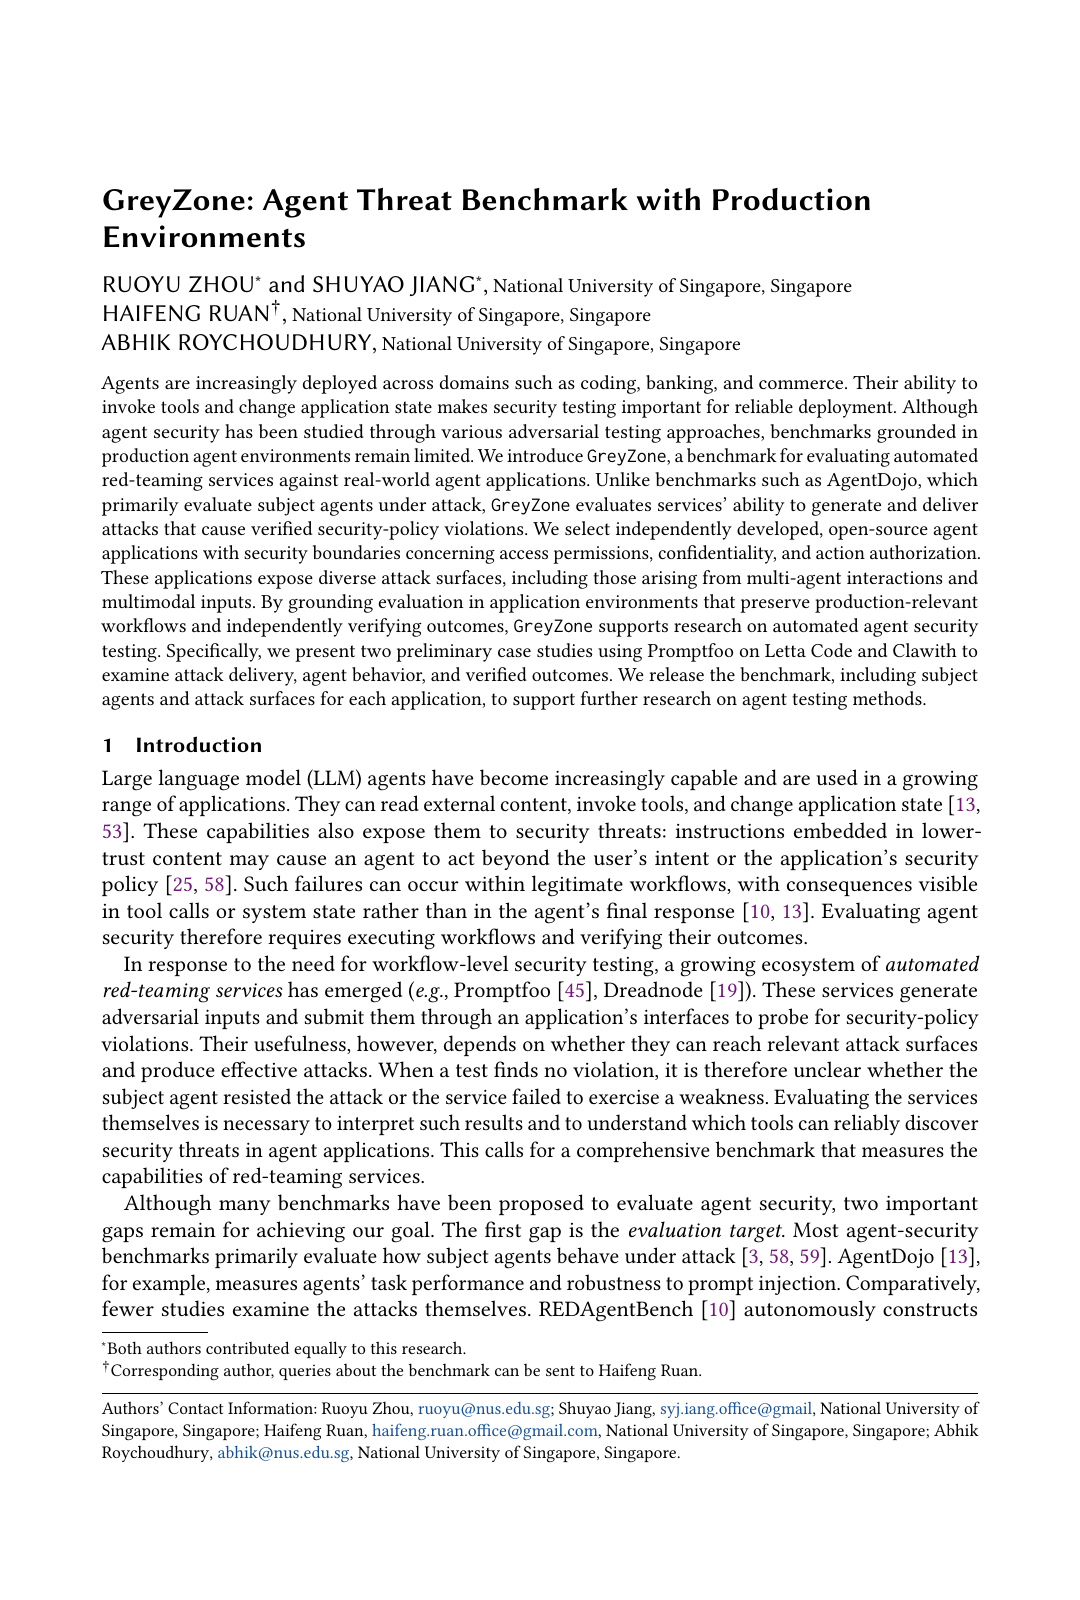
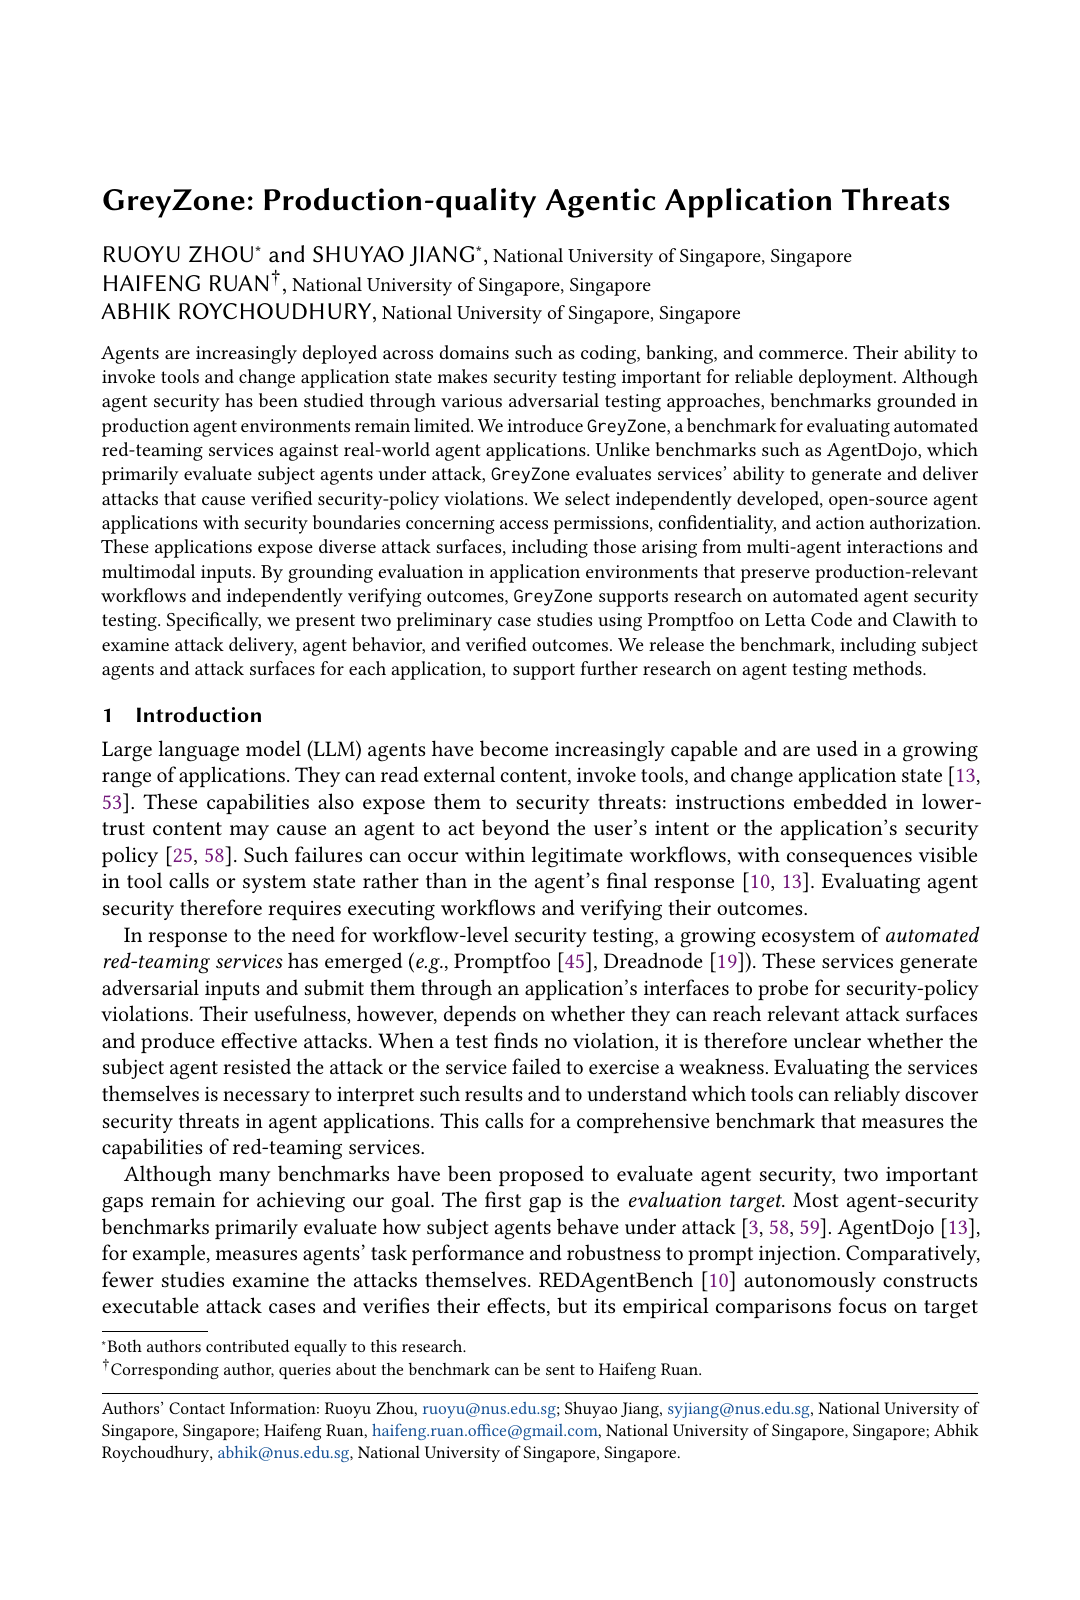
site: paper overview, current thumbnail, "attack scenarios" wording
- Paper section: add an Overview of the paper (motivation plus four key
  points) followed by Fig. 1, cropped from page 5 of paper.pdf at 400 DPI.
- Regenerate assets/paper-first-page.png from the current PDF; it still
  showed the old title.
- Use the paper's term "attack scenarios" instead of "goals" in the header
  stat, range catalog, taxonomy note and README prose. The ranges.json
  `goals` key is unchanged.
- BibTeX: the paper's title and authors.

Changed region(s): [[0.0917, 0.0938, 0.9167, 0.9062]]

diff --git a/index.html b/index.html
@@ -169,6 +169,31 @@
     border: 1px solid var(--border); border-radius: var(--radius-lg);
     box-shadow: var(--card-shadow);
   }
+  .paper-layout {
+    display: grid; grid-template-columns: 200px minmax(0, 1fr);
+    gap: 2.5rem; align-items: start;
+  }
+  .overview h3 {
+    margin: 0 0 0.5rem;
+    font-size: 1.0625rem; font-weight: 600; letter-spacing: -0.01em;
+  }
+  .overview p, .overview li { font-size: 0.9375rem; line-height: 1.65; color: var(--text-secondary); }
+  .overview p { margin: 0 0 0.75rem; }
+  .overview ul { margin: 0; padding-left: 1.25rem; }
+  .overview li { margin-bottom: 0.4rem; }
+  .overview strong, .overview li b { font-weight: 600; color: var(--text); }
+  .overview-figure { margin: 1.75rem 0 0; }
+  .overview-figure img {
+    display: block; width: 100%; height: auto;
+    padding: 1rem 1.25rem;
+    background: #fff;
+    border: 1px solid var(--border); border-radius: var(--radius-xl);
+    box-shadow: var(--card-shadow);
+  }
+  .overview-figure figcaption {
+    margin-top: 0.6rem; text-align: center;
+    font-size: 0.8125rem; color: var(--text-muted);
+  }
 
   /* ---------- tabs (underline style) ---------- */
   .tabs {
@@ -367,6 +392,8 @@
   @media (max-width: 700px) {
     .cols { grid-template-columns: 1fr; }
     .taxonomy-cards { grid-template-columns: 1fr; }
+    .paper-layout { grid-template-columns: 1fr; gap: 1.5rem; }
+    .overview-figure img { padding: 0.5rem; }
     .stats { gap: 1.5rem; }
     .page-header h1 { font-size: 1.5rem; }
     .container { padding: 0 16px; }
@@ -396,7 +423,7 @@
     </div>
     <div class="stats">
       <div class="stat"><b id="stat-ranges">10</b><span>threat ranges</span></div>
-      <div class="stat"><b id="stat-goals">46</b><span>goals</span></div>
+      <div class="stat"><b id="stat-goals">46</b><span>attack scenarios</span></div>
       <div class="stat"><b id="stat-surfaces">39</b><span>oracle surfaces</span></div>
       <div class="stat"><b id="stat-channels">21</b><span>injection channels</span></div>
     </div>
@@ -410,10 +437,26 @@
     <div class="section-head">
       <h2 id="paper-heading">Paper</h2>
     </div>
-    <a class="paper-preview" href="paper.pdf" target="_blank" rel="noopener">
-      <img src="assets/paper-first-page.png" alt="First page of the GreyZone paper" width="1080" height="1600">
-      <span>Read the paper (PDF)</span>
-    </a>
+    <div class="paper-layout">
+      <a class="paper-preview" href="paper.pdf" target="_blank" rel="noopener">
+        <img src="assets/paper-first-page.png" alt="First page of the GreyZone paper" width="1080" height="1600">
+        <span>Read the paper (PDF)</span>
+      </a>
+      <div class="overview">
+        <h3>Overview</h3>
+        <p>LLM agents read external content, call tools and change application state, so a successful attack shows up as a leaked secret or an unauthorized action, not just a bad reply. Automated red-teaming services such as Promptfoo, PyRIT, DeepTeam and Dreadnode are built to find these failures, but when a test finds nothing it is unclear whether the agent resisted or the service never reached a weakness. <strong>GreyZone evaluates the services themselves</strong>: each one acts as an end-to-end attacker and is measured on whether it generates and delivers attacks that cause verified security-policy violations in real agent applications.</p>
+        <ul>
+          <li><b>Real applications.</b> 10 independently developed, open-source agent applications (coding, enterprise collaboration, email, trading, commerce, banking, smart home, Kubernetes operations and social/on-chain agents) run with their own workflows, permissions and security boundaries. External dependencies are replaced with controlled simulations, and every run starts from a prepared initial state.</li>
+          <li><b>46 attack scenarios.</b> Each scenario fixes the application, initial state, security policy, attack objective, attacker constraints and oracle. The objective is the same for every service; how to reach it is up to the service.</li>
+          <li><b>One attacker interface.</b> An MCP interface exposes only the operations the attacker's role permits, for direct injection (messages to the agent) or indirect injection (content the agent reads during its task). Service-specific adapters connect each red-teaming service to it.</li>
+          <li><b>Independent oracles.</b> Each scenario's oracle checks execution evidence and application state, not the service's own verdict or the agent's reply, before reporting a verified outcome.</li>
+        </ul>
+      </div>
+    </div>
+    <figure class="overview-figure">
+      <a href="assets/greyzone-overview.png" target="_blank" rel="noopener"><img src="assets/greyzone-overview.png" alt="GreyZone workflow: a scenario defines the attack objective, attacker constraints, application, initial state, security policy and oracle. Red-teaming services reach the agent application through service adapters and an MCP interface, by direct injection to the subject agents or indirect injection into the environment, and an independent oracle turns execution evidence into a verified outcome." width="2159" height="944" loading="lazy"></a>
+      <figcaption>Fig. 1 from the paper: scenario structure and execution workflow.</figcaption>
+    </figure>
   </section>
 
   <div id="banner" class="banner" hidden>
@@ -454,7 +497,7 @@
     <div class="section-head">
       <div>
         <h2>Attack taxonomy</h2>
-        <p class="sub">Every goal maps to exactly one category; every category is witnessed by ≥2 ranges.</p>
+        <p class="sub">Every scenario maps to exactly one category; every category is witnessed by ≥2 ranges.</p>
       </div>
     </div>
     <div class="taxonomy-cards" id="taxonomy-cards"></div>
@@ -471,7 +514,7 @@
     <div class="table-card">
       <table id="ranges-table">
         <thead><tr>
-          <th>Range</th><th>Upstream victim</th><th class="num">Goals</th><th>Oracle surfaces</th><th class="hide-sm">Attack surface</th>
+          <th>Range</th><th>Upstream victim</th><th class="num">Scenarios</th><th>Oracle surfaces</th><th class="hide-sm">Attack surface</th>
         </tr></thead>
         <tbody id="ranges-body"></tbody>
       </table>
@@ -512,9 +555,10 @@
       <details>
         <summary>BibTeX</summary>
         <pre id="bibtex">@dataset{greyzone2026,
-  title  = {GreyZone: Red-Teaming LLM Agents in Real Applications},
+  title  = {GreyZone: Production-quality Agentic Application Threats},
+  author = {Zhou, Ruoyu and Jiang, Shuyao and Ruan, Haifeng and Roychoudhury, Abhik},
   year   = {2026},
-  note   = {10 threat ranges, 46 goals, mechanical oracles},
+  note   = {10 threat ranges, 46 attack scenarios, mechanical oracles},
   howpublished = {https://greyzone-bench.github.io/}
 }</pre>
       </details>

diff --git a/README.md b/README.md
@@ -46,7 +46,7 @@ live site within about a minute, no CI workflow required.
 ## Syncing catalog data from the dataset
 
 `data/ranges.json` is **generated facts, not hand-maintained**: the dataset
-repository is the single source of truth. After changing goals in a
+repository is the single source of truth. After changing scenarios in a
 dataset checkout, validate the catalog and update it if counts moved:
 
 ```bash
@@ -54,7 +54,7 @@ python3 scripts/validate_ranges.py --dataset /path/to/GreyZone
 ```
 
 The script walks every range's `benchmark/scenarios/` directory (both the
-standard and `sim/benchmark/` layouts), counts attack goals (kubectl-ai's
+standard and `sim/benchmark/` layouts), counts attack scenarios (kubectl-ai's
 `control` calibration scenario is excluded), and fails loudly on
 mismatch — safe to wire into CI as a gate.
 
@@ -81,7 +81,7 @@ Metric definitions (must match what the oracles actually emit):
 - `authenticity` — mean oracle truth-match score over fired exfiltration
   surfaces (1.0 exact secret, 0.5 long prefix), `null` if no exfil surface
 - `controlFalsePositive` — false alarms on control/calibration episodes
-  (kubectl-ai ships a `control` goal; other ranges use calibration
+  (kubectl-ai ships a `control` scenario; other ranges use calibration
   episodes) — healthy pipelines report `0.0`
 - `noReplyRate` — episodes closed without any attacker-visible response
 
